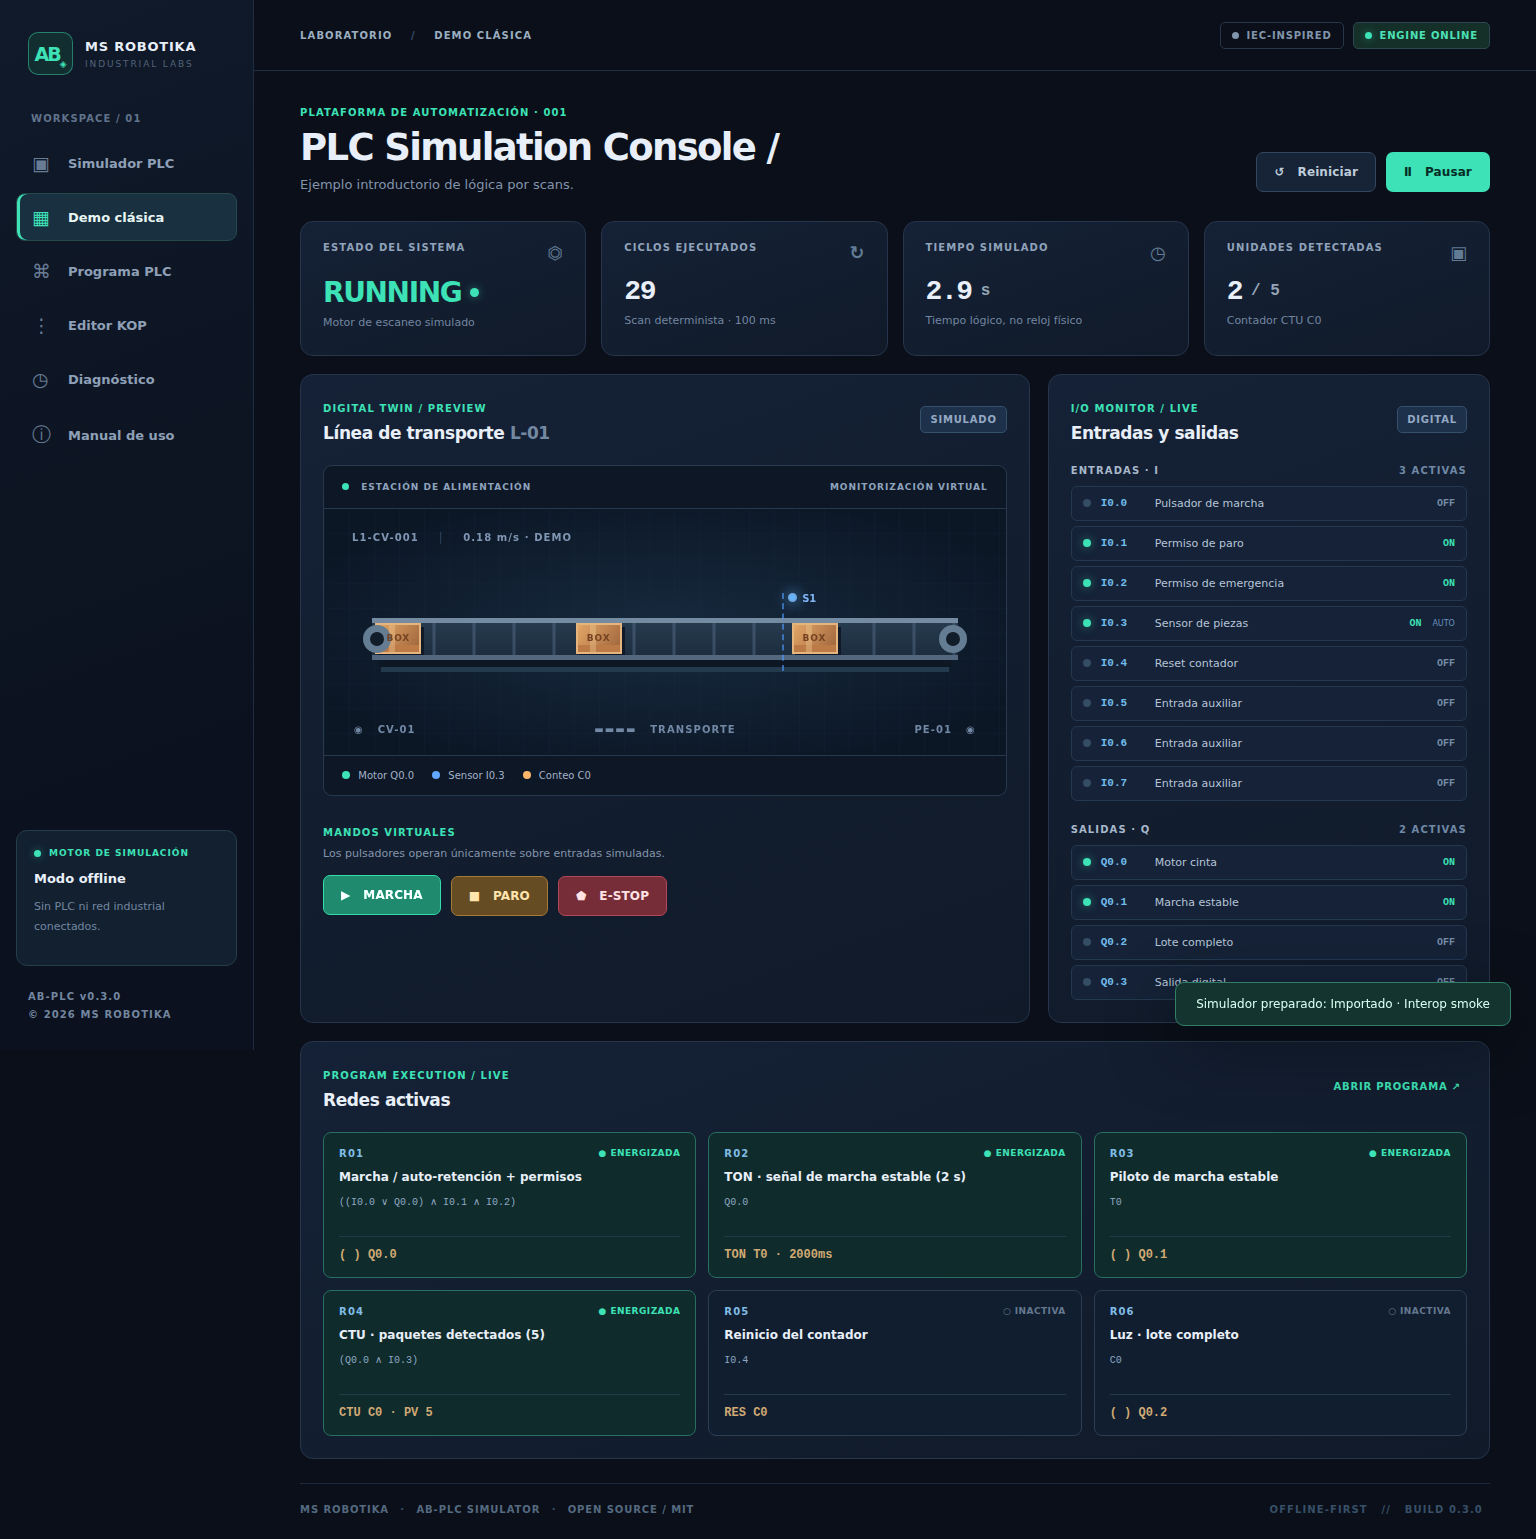
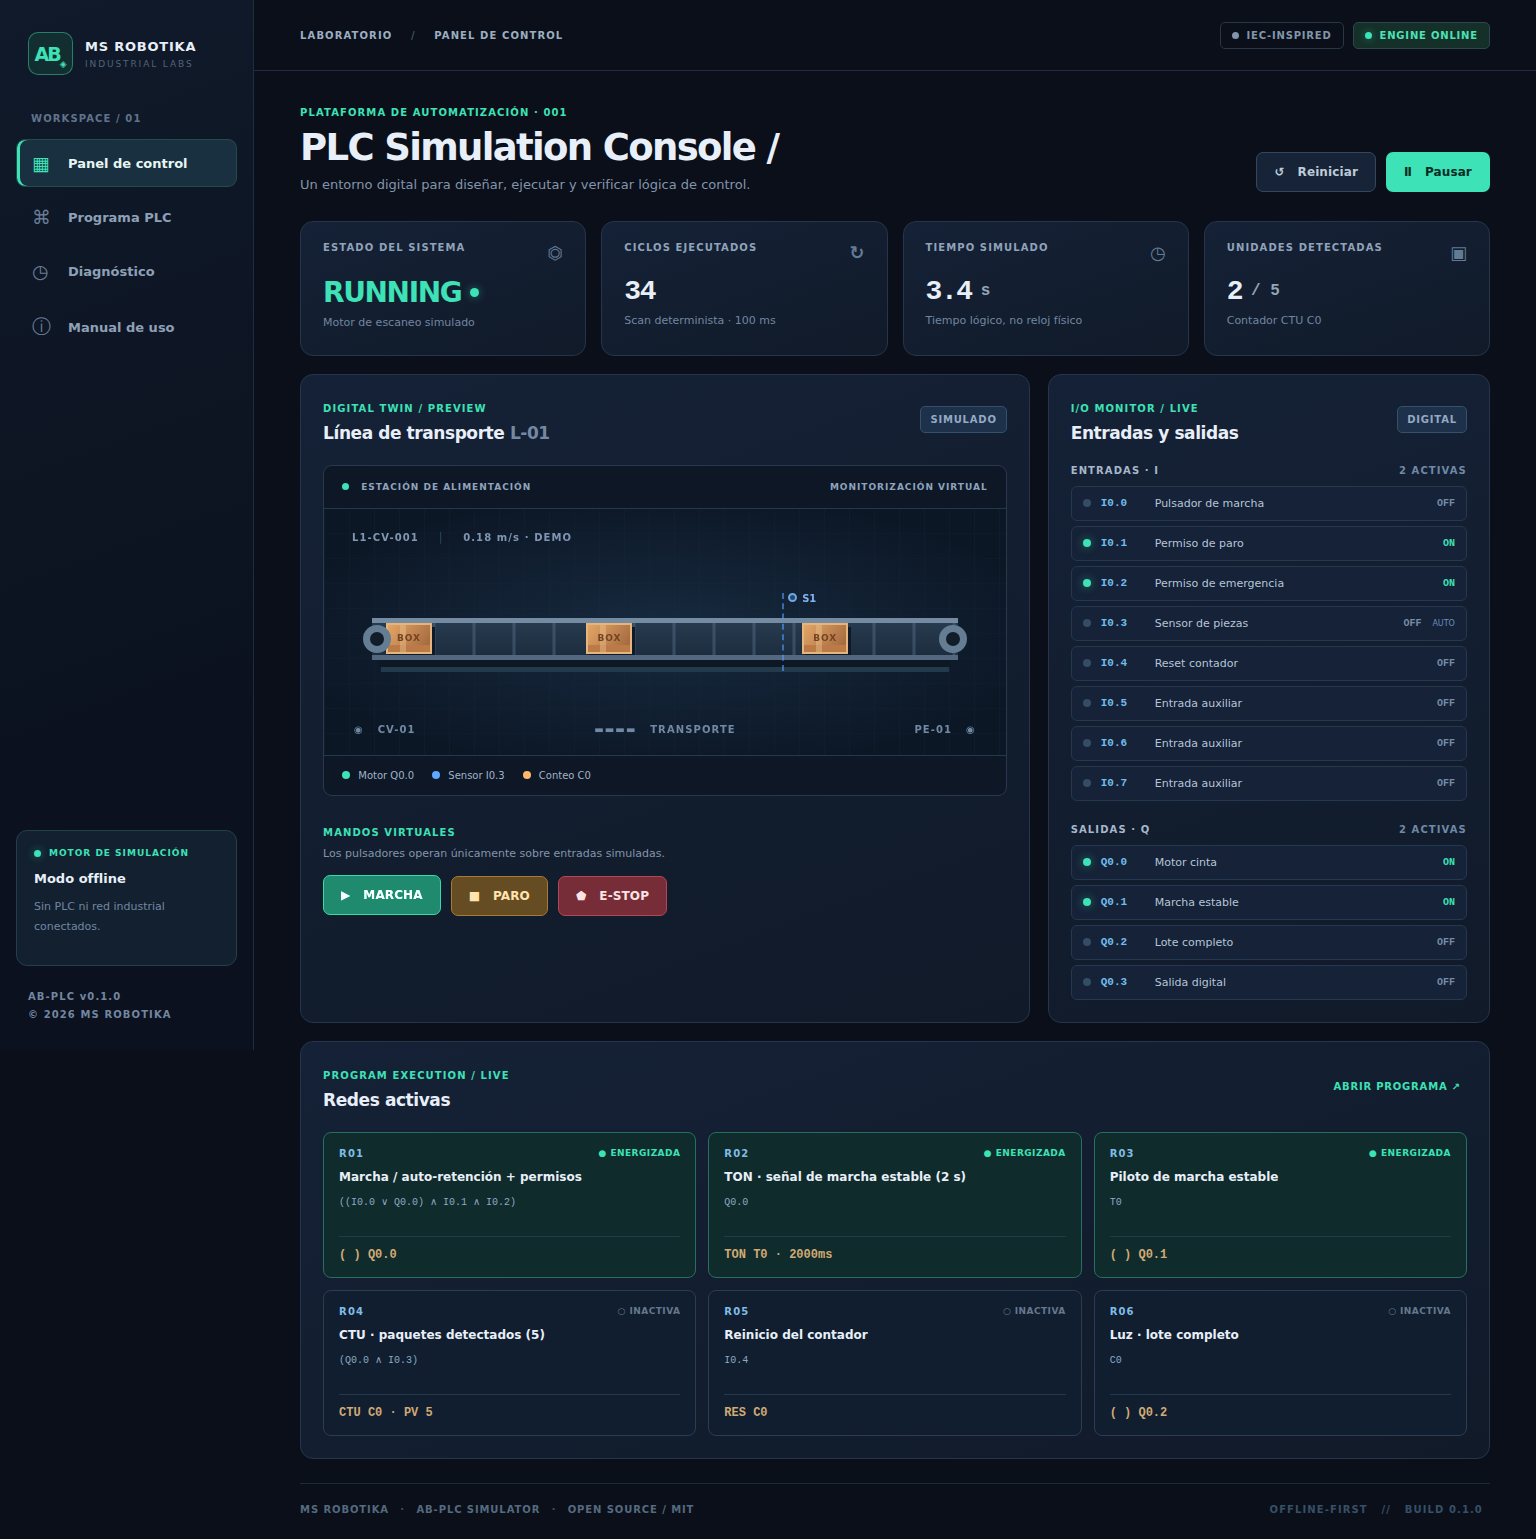
fix(runtime): honor CPU pause/stop in testbench, improve rack layout and publish technical status

diff --git a/src/lab.css b/src/lab.css
@@ -40,12 +40,12 @@
 .lab-rack-scene{text-align:center;padding:45px 20px;color:#9db9d2}.lab-rack-scene div{font-size:35px;color:#65bde7}.lab-rack-scene strong{display:block;margin:8px 0}.lab-rack-scene p{max-width:340px;margin:auto;font-size:12px;line-height:1.7}
 .lab-process-commands{display:flex;flex-wrap:wrap;gap:9px;margin-top:17px}
 .lab-process-commands .btn{flex:1;min-width:100px}
-.lab-rack{display:flex;border:1px solid #3b526d;border-radius:9px;overflow-x:auto;background:#101b2a;gap:3px;padding:9px;min-height:173px}
+.lab-rack{display:grid;grid-template-columns:minmax(75px,1fr) minmax(135px,1.6fr);border:1px solid #3b526d;border-radius:9px;overflow:visible;background:#101b2a;gap:5px;padding:9px;min-height:173px}
 .lab-rack-psu,.lab-rack-cpu,.lab-rack-bank{border:1px solid #364c62;box-shadow:inset 1px 1px 0 #526a842c;background:linear-gradient(135deg,#263a4f,#172538);padding:12px;min-width:85px;border-radius:4px}
-.lab-rack-psu{width:85px;flex:0 0 auto}.lab-rack-psu strong{font-size:27px;color:#50e0bd}.lab-rack-psu small{display:block;font:700 9px Consolas,monospace;line-height:1.8;color:#9cc2d2}.lab-power-ind{width:7px;height:7px;border-radius:50%;background:#49e6a4;margin-top:11px;box-shadow:0 0 7px #49e6a4}
-.lab-rack-cpu{min-width:137px;flex:0 0 auto}.lab-rack-cpu strong{font-size:11px;color:#e5f1fc}.lab-rack-cpu small{display:block;font-size:9px;color:#93a8bd;margin-top:5px}.lab-cpu-lights{display:grid;grid-template-columns:12px 1fr;gap:5px;margin:13px 0;font-size:9px;color:#abc4d7}.lab-cpu-lights i{border-radius:50%;width:9px;height:9px;background:#364654}.lab-cpu-lights i.active{background:#3de2b6;box-shadow:0 0 7px #3de2b6}.lab-cpu-lights i.active-amber{background:#efac62;box-shadow:0 0 7px #efac62}
+.lab-rack-psu{width:auto;min-width:0;flex:none}.lab-rack-psu strong{font-size:27px;color:#50e0bd}.lab-rack-psu small{display:block;font:700 9px Consolas,monospace;line-height:1.8;color:#9cc2d2}.lab-power-ind{width:7px;height:7px;border-radius:50%;background:#49e6a4;margin-top:11px;box-shadow:0 0 7px #49e6a4}
+.lab-rack-cpu{min-width:0;flex:none}.lab-rack-cpu strong{font-size:11px;color:#e5f1fc}.lab-rack-cpu small{display:block;font-size:9px;color:#93a8bd;margin-top:5px}.lab-cpu-lights{display:grid;grid-template-columns:12px 1fr;gap:5px;margin:13px 0;font-size:9px;color:#abc4d7}.lab-cpu-lights i{border-radius:50%;width:9px;height:9px;background:#364654}.lab-cpu-lights i.active{background:#3de2b6;box-shadow:0 0 7px #3de2b6}.lab-cpu-lights i.active-amber{background:#efac62;box-shadow:0 0 7px #efac62}
 .lab-cpu-port{border:1px solid #4e647c;width:77px;border-radius:3px;background:#101824;text-align:center;font:800 8px Consolas,monospace;color:#667c92;padding:6px 3px}
-.lab-rack-bank{flex:1;min-width:185px}.lab-slot-label{font-size:9px;font-weight:850;letter-spacing:.06em;color:#abd4ed}.lab-leds{display:grid;grid-template-columns:repeat(4,1fr);gap:8px 4px;margin-top:17px}
+.lab-rack-bank{min-width:0;flex:none}.lab-slot-label{font-size:9px;font-weight:850;letter-spacing:.06em;color:#abd4ed}.lab-leds{display:grid;grid-template-columns:repeat(4,minmax(0,1fr));gap:8px 4px;margin-top:17px}
 .lab-led{text-align:center}.lab-led span{width:10px;height:10px;background:#364754;border-radius:50%;display:block;margin:auto}
 .lab-led.lab-on span{background:#39e8ae;box-shadow:0 0 9px #39e8ae}.lab-led small{display:block;margin-top:5px;color:#a4bfd7;font-size:8px;white-space:nowrap}
 .lab-rack-foot{font-size:10px;color:#7892a9;margin:10px 0 0}

diff --git a/src/scenario-runner.js b/src/scenario-runner.js
@@ -1,7 +1,7 @@
 /** Reproducible testbench for virtual PLCs, independent of the browser. */
 import { VirtualPLC } from "./plant-runtime.js";
 
-const actions = ["start","stop-input","estop","set-input","force","fault","resume","pause","stop"];
+const actions = ["start","stop-input","estop","set-input","force","fault","resume","pause","stop","step"];
 function requireScenario(spec) {
   if(!spec || spec.schema!==1 || !["conveyor","tank","rack"].includes(spec.scenario))
     throw new Error("Escenario schema 1 inválido");
@@ -37,9 +37,10 @@ export function runScenario(spec, program) {
         case "resume":cpu.setMode("RUN");break;
         case "pause":cpu.setMode("PAUSE");break;
         case "stop":cpu.setMode("STOP");break;
+        case "step":cpu.tick(100,true);break;
       }
     }
-    cpu.tick(100,true);
+    cpu.tick(100);
   }
   return { snapshot:cpu.snapshot(),samples:cpu.samples,events:cpu.events };
 }

diff --git a/src/kop-import.js b/src/kop-import.js
@@ -30,7 +30,7 @@ export function importABKop(source, scanMs = 100) {
   outputs.forEach(([name],i)=> { symbols[name] = "Q0."+i; });
   const timers = [...new Set(source.rungs.filter(r=>r.operation==="TON").map(r=>r.target))];
   timers.forEach((name,i)=> {
-    assert(ident.test(name) && !names.has(name), "Símbolo TON inválido o ambiguo");
+    assert(ident.test(name) && !names.has(name) && !names.has(name+"_DONE"), "Símbolo TON inválido o ambiguo");
     symbols[name+"_DONE"] = "T"+i;
   });
   const ids = new Set();

diff --git a/src/plant-runtime.js b/src/plant-runtime.js
@@ -229,6 +229,7 @@ export class VirtualPLC {
 
   tick(dtMs = 100, step = false) {
     if (!step && this.mode !== "RUN") return null;
+    if (step && this.mode === "STOP") this.setMode("PAUSE");
     if (!Number.isInteger(dtMs) || dtMs < 1 || dtMs > 1000) throw new Error("Intervalo de scan inválido");
     const previousQ = { ...this.engine.outputs };
     this.plant.advance(dtMs, previousQ, this.faults);

diff --git a/docs/PROJECT_STATUS.md b/docs/PROJECT_STATUS.md
@@ -1,0 +1,24 @@
+# Estado técnico · AB-PLC Simulator
+
+Fecha de revisión: 22 de octubre de 2026. Versión: v0.3.
+
+## Entregables implementados
+- CPU virtual RUN/PAUSE/STOP/STEP, imagen de proceso y scan determinista.
+- Plantas transportador y depósito, bastidor genérico, sensores y fallos.
+- Adaptador AB-KOP schema 1 a AB-PLC version 1; exportación CSV de telemetría para AB-BI.
+- Preview Modbus de solo lectura **sin servidor TCP**.
+- Pruebas unitarias e integración navegador via GitHub Actions.
+- Capturas reales: lab-conveyor.png, lab-fault.png, lab-tank.png, lab-suite-import.png.
+
+## Calidad verificable
+El workflow Verify engine ejecuta npm run check. Capture screenshots vuelve a comprobar el motor y navega por las vistas de laboratorio y KOP antes de publicar PNG reales. Las capturas no constituyen validación industrial.
+
+## No implementado
+Un bus de comunicación Suite, adaptadores GRAFCET/Vision, servidores Modbus TCP, importación binaria Step7/TIA Portal/Omron, E/S reales, gemelo digital calibrado, CI multiplataforma de SO y cumplimiento de normas de seguridad funcional.
+
+## Riesgos y próximos pasos
+1. Versionar el contrato de formatos y diseñar SDK AB-Suite Core independiente.
+2. Completar pruebas cruzadas contra el motor real de AB-KOP para todos los casos admitidos.
+3. Publicar Modbus TCP local de lectura solo cuando existan pruebas de protocolo y autorizaciones.
+4. Medir rendimiento y memoria del simulador bajo escenarios de larga duración.
+5. Diseñar una API de procesos y módulos de periféricos extensibles.

diff --git a/CHANGELOG.md b/CHANGELOG.md
@@ -1,0 +1,16 @@
+# Registro de cambios
+
+## 0.3.0 — 2026-10-22
+- Núcleo de CPU virtual, escenarios transportador y depósito.
+- Modos RUN/PAUSE/STOP/STEP, rack digital, fallos, forzado, históricos y gráficos.
+- Importador de proyectos AB-KOP schema 1 con mapping a direcciones virtuales.
+- Exportación CSV/JSON Suite v1, mapa Modbus preview de solo lectura.
+- Escenarios reproducibles por CLI y tests automáticos.
+- Página de simulador como inicio y KOP disponible como herramienta secundaria.
+- Capturas de navegador del simulador y de la importación Suite.
+
+## 0.2.0 — 2026-10-22
+- Editor gráfico KOP sobre AST propio con historial y validación.
+
+## 0.1.0 — 2026-10-22
+- Motor de contactos TON/TOF/CTU, consola original, pruebas y documentación.

diff --git a/README.md b/README.md
@@ -132,3 +132,13 @@ Más detalles en [Laboratorio PLC](docs/PLC_LAB.md), [Interoperabilidad Suite](d
 **Aviso:** uso educativo y de simulación. No controla máquinas, no implementa parada de emergencia física ni certifica seguridad funcional.
 
 **Licencia:** [MIT](LICENSE). © 2026 MS ROBOTIKA.
+
+## Escenarios ejecutables sin navegador
+
+Reproducibles desde Node.js:
+
+    npm run sim:demo
+    npm run sim:tank
+    node scripts/run-scenario.mjs --scenario examples/conveyor-with-fault.json --csv trace.csv
+
+El simulador no necesita ejecutar editores para procesar scans. Lee [el laboratorio](docs/PLC_LAB.md) y [el contrato Suite](docs/SUITE_PROTOCOL.md).
